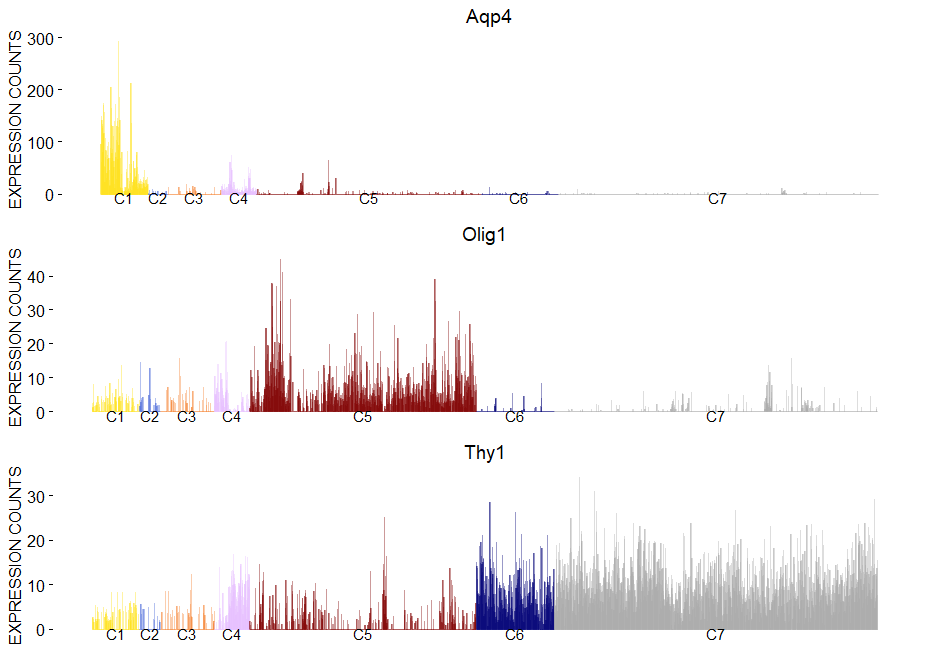
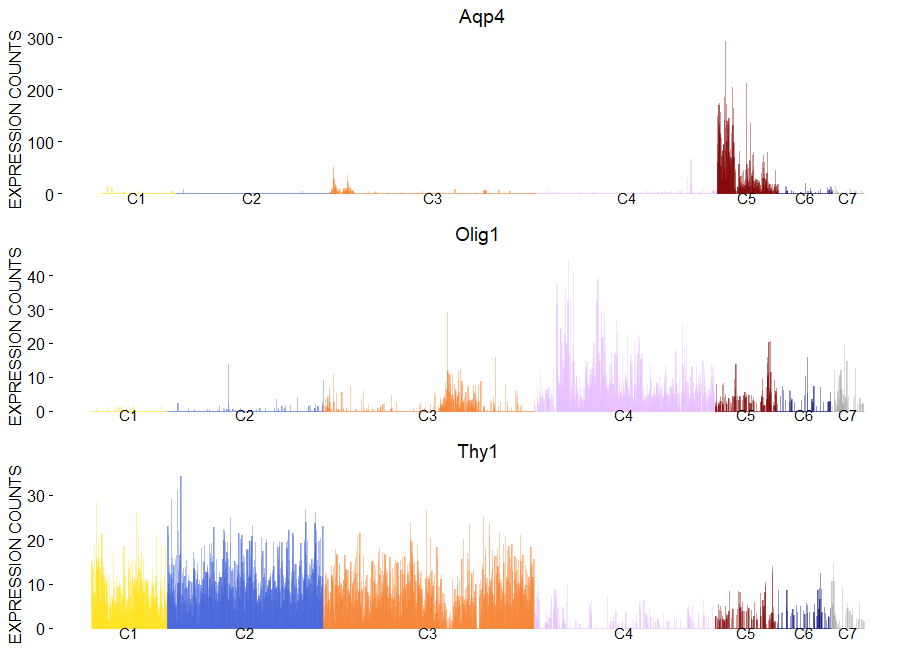
beta work in progress!

diff --git a/Readme.md b/Readme.md
@@ -147,14 +147,14 @@ viewGeneViolin(sce,'Aqp4')
 
 ### Browsing markers
 
-To have a look to the markers found by bigscale we retrive `Mlist` from the single cell object. `Mlist` is a 2 dimensional list containing for each cluster the markers of the different levels. Let's inspect the markers of level 1 (most specific) of cluster 5 (oligodendrocytes). We will take advantage of the package `DT` for interactive visualization.
-Running the next command line we will see the markers specific to cluster 5 sorted from the highest (most significant) to the lowest (less significant) Zscore.
+To have a look to the markers found by bigscale we retrive `Mlist` from the single cell object. `Mlist` is a 2 dimensional list containing for each cluster the markers of the different levels. Let's inspect the markers of level 1 (most specific) of cluster 4 (oligodendrocytes). We will take advantage of the package `DT` for interactive visualization.
+Running the next command line we will see the markers specific to cluster 4 sorted from the highest (most significant) to the lowest (less significant) Zscore.
 
 
 
 ```{r}
 Mlist=getMarkers(sce)
-DT::datatable(Mlist[[5,1]])
+DT::datatable(Mlist[[4,1]])
 ``` 
 ![](figures/datatable.png)
 
@@ -164,26 +164,26 @@ Let us now check other genes marking oligodendrocytes (cluster 5) which are shar
 
 
 ```{r}
-DT::datatable(Mlist[[5,5]])
+DT::datatable(Mlist[[4,5]])
 ``` 
 
 ![](figures/datatable5.png)
 
 
-Here Cd9 jumps at the top of the list. This is a surface receptor expressed in oligodendrocytes but also in all the other glial cells.
+Here we can browse for Cd9, which has now a significant Z-score. Cd9 is a surface receptor expressed in oligodendrocytes but also in all the other glial cells.
 
 ### Browsing signatures
 
 Alternatevely to a cluster-based organization of the markers (as shown before, we have clusters and we have levels) there is also a more compact organization of markers into lists of co-expressed genes. This are the same lists shown with `viewSignatures(sce)`.
-To access the genes of the lists we do:
+Let us give a look to signature 1, a large list of 5432 genes expressed in neurons.
 
 ```{r}
 Signatures=getSignatures(sce)
-DT::datatable(Signatures[[4]])
+DT::datatable(Signatures[[1]])
 ```
-![](figures/signatures4.png)
+![](figures/signatures1.png)
 
-This is the signature number 4, with 1167 genes. Among the top ones we can see again Cd9. **Keep in mind that we calculated these markers and signatures with the `speed.preset='fast'` which means low quality. This plots nd tables are for demonstration purposes only.**
+ **Keep in mind that we calculated these markers and signatures with the `speed.preset='fast'` which means low quality. This plots nd tables are for demonstration purposes only.**
 
 ### Pseudotime
 
